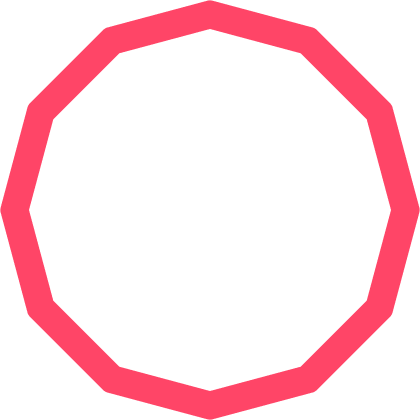
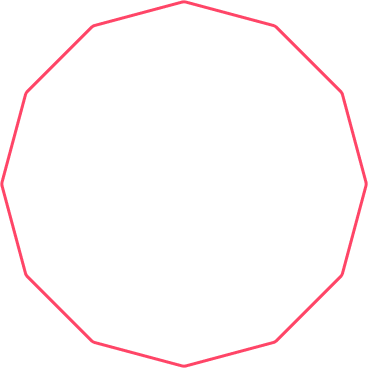
style: update homepage assets/design and change cursor design

Changed region(s): [[0.0, 0.0, 1.0, 1.0]]

diff --git a/src/app/(home)/page.tsx b/src/app/(home)/page.tsx
@@ -11,6 +11,18 @@ export default function HomePage() {
   return (
     <>
     <main className={styles.main}>
+      <div className={styles.copyrightWrapper}>
+        <p className={styles.copyrightText}>Designed by Sadie Lee</p>
+        <p className={styles.copyrightText}>Developed by&nbsp;
+          <Link 
+            href="https://seojeongkim.com" 
+            target='_blank'
+            className={styles.copyrightLink}
+            >
+              Jenny Kim
+          </Link>
+        </p>
+      </div>
       <nav className={styles.linksWrapper}>
         <ul className={styles.linksContainer}>
           <li className={styles.link}>

diff --git a/src/app/components/MatterJSBridgeLaptop/index.js b/src/app/components/MatterJSBridgeLaptop/index.js
@@ -67,7 +67,7 @@ const MatterJSBridgeLaptop = () => {
     const bridge = Composites.stack(100, 100, 9, 1, 0, 1, function(x, y) {
       return Bodies.rectangle(x - 10, y, canvasWidth - ((canvasWidth * (RATIO * 2)) * 3.5), 40, { 
           collisionFilter: { group: group },
-          chamfer: 7,
+          chamfer: 1,
           density: 0.2,
           frictionAir: 0.3,
           render: {

diff --git a/src/app/(home)/homePage.module.css b/src/app/(home)/homePage.module.css
@@ -4,8 +4,16 @@
   desk-lg:max-w-constraint;
 }
 
-.lineBackground {
-  @apply absolute top-0 left-0 w-full h-full;
+.copyrightWrapper {
+  @apply absolute right-[0.5rem] top-[0.5rem] z-50;
+}
+
+.copyrightText {
+  @apply text-right text-sm;
+}
+
+.copyrightLink {
+  @apply underline;
 }
 
 .linksWrapper {

diff --git a/src/app/context/WorkContext.tsx b/src/app/context/WorkContext.tsx
@@ -30,9 +30,6 @@ export const WorkContextProvider = ({children}: WorkContextProviderProps) => {
     }).catch((error) => console.error(error))
   }, [])
 
-
-  console.log(works)
-
     return (
         <WorkContext.Provider value={{ works }}> 
             {children}

diff --git a/src/app/globals.css b/src/app/globals.css
@@ -61,6 +61,7 @@ body {
   font-family: var(--font-clashDisplay);
   color: var(--color-black);
   line-height: 1.4;
+  cursor: url('/cursor.svg'), auto;
 }
 
 .globalSideWrapper {
